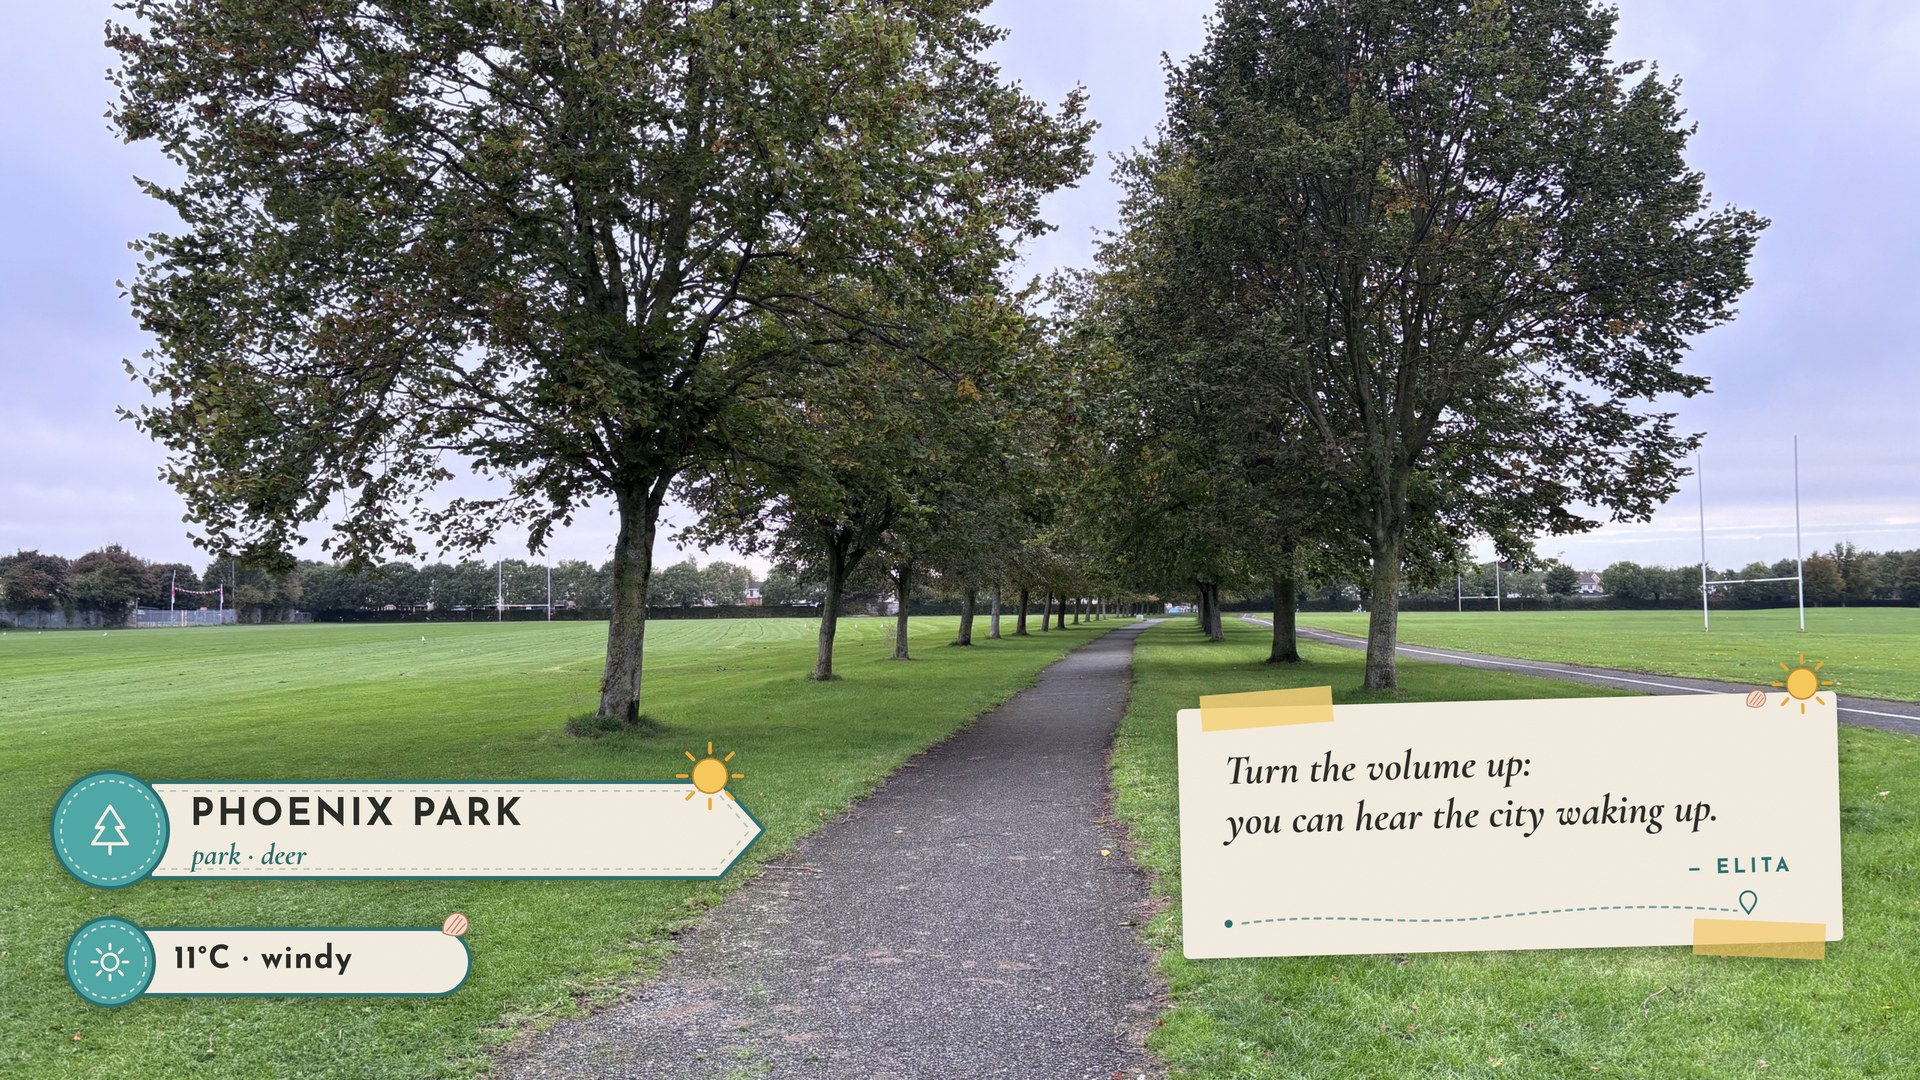
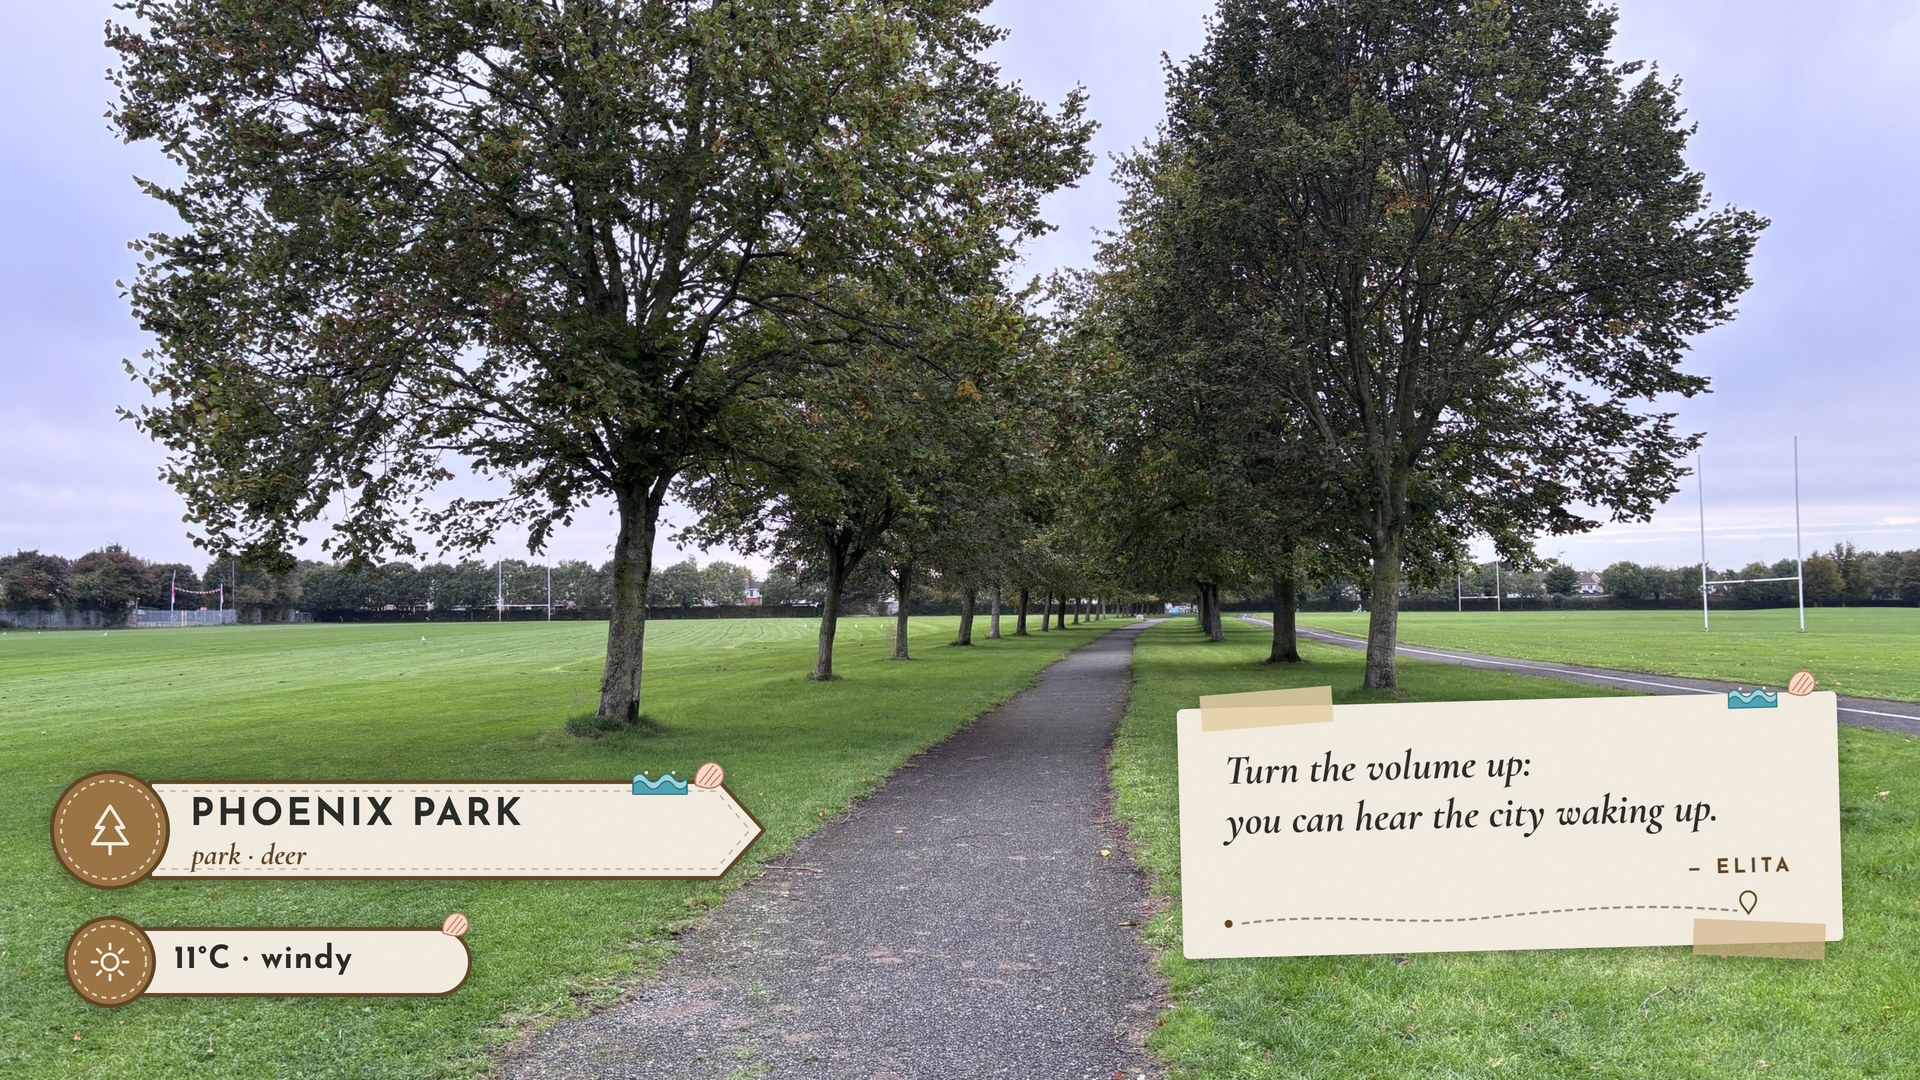
Elita: kit sendero con un solo color general (arena) y decoraciones por época
Claude-Session: https://claude.ai/code/session_01QcE6ahXjMRX9nuFAhFcmJW

diff --git a/elita-aventuras/scripts/sendero.py b/elita-aventuras/scripts/sendero.py
@@ -5,12 +5,9 @@ import agregados as A
 # toma), texto en tinta, color de la temporada en círculos, bordes y detalles. Medidas en unidades 1080p
 # (se renderiza a 2x para 4K).
 PAPEL='#F4EEE2'; TINTA='#2A2C27'
-PAL={  # principal, oscuro, suave (cinta / detalles), etiqueta ES, EN
- 'otono':dict(c='#C97B45',o='#8A4A25',s='#F0C9A0',c2='#E3B052'),
- 'halloween':dict(c='#8A6BB0',o='#4E3870',s='#F3B26B',c2='#F0954A'),
- 'invierno':dict(c='#7FA9C9',o='#4A6F8E',s='#D6E7F2',c2='#B9D3E6'),
- 'verano':dict(c='#4FA7A6',o='#2D6E6E',s='#F5D27A',c2='#F3C766'),
-}
+# Un solo color general para todo (el arena del logo); lo que cambia por época son los iconitos de arriba.
+GENERAL=dict(c='#9A7444',o='#5E4626',s='#E3CFA6',c2='#D2B587')
+PAL={t:GENERAL for t in ('otono','halloween','invierno','verano')}
 def ico(n,col,tam,sw=2.4): return A.icono(n,col,tam,sw)
 # ---------- decoraciones chicas por temporada ----------
 def hoja_arce(x,y,s,r,c):
@@ -18,23 +15,26 @@ def hoja_arce(x,y,s,r,c):
     return f'<g transform="translate({x},{y}) rotate({r}) scale({s})"><path d="{p}" fill="{c}" stroke="#7a3f1c" stroke-width="1.6" stroke-linejoin="round"/><path d="M0 24 V-18 M0 6 L10 -2 M0 6 L-10 -2" stroke="#7a3f1c" stroke-width="1.4" fill="none"/></g>'
 def hoja_oval(x,y,s,r,c): return f'<g transform="translate({x},{y}) rotate({r}) scale({s})"><path d="M0 -20 C12 -10 12 10 0 20 C-12 10 -12 -10 0 -20Z" fill="{c}" stroke="#7a3f1c" stroke-width="1.6"/><path d="M0 -16 V24" stroke="#7a3f1c" stroke-width="1.4"/></g>'
 def murcielago(x,y,s): return f'<g transform="translate({x},{y}) scale({s})"><path d="M0 0 C-4 -5 -11 -7 -20 -4 C-16 -2 -15 1 -16 4 C-12 1 -8 2 -6 5 C-4 2 -2 2 0 4 C2 2 4 2 6 5 C8 2 12 1 16 4 C15 1 16 -2 20 -4 C11 -7 4 -5 0 0Z" fill="#3b2a4e" stroke="#F3B26B" stroke-width="1.2" stroke-linejoin="round"/></g>'
-def calabaza(x,y,s): return f'<g transform="translate({x},{y}) scale({s})"><path d="M-2 -22 C-1 -29 3 -32 7 -32" stroke="#4d6b3a" stroke-width="4.5" fill="none" stroke-linecap="round"/><ellipse cx="-16" cy="0" rx="17" ry="21" fill="#e07a30" stroke="#8a4a1c" stroke-width="1.6"/><ellipse cx="16" cy="0" rx="17" ry="21" fill="#e07a30" stroke="#8a4a1c" stroke-width="1.6"/><ellipse cx="0" cy="0" rx="16" ry="23" fill="#ee8c3c" stroke="#8a4a1c" stroke-width="1.6"/><path d="M-19 -7 l7 -5 l3 8z M19 -7 l-7 -5 l-3 8z M-17 7 Q0 19 17 7 L12 9 L8 5 L4 11 L0 6 L-4 11 L-8 5 L-12 9Z" fill="#3a2414"/></g>'
+def calabaza(x,y,s): return f'<g transform="translate({x},{y}) scale({s})"><path d="M-2 -22 C-1 -29 3 -32 7 -32" stroke="#4d6b3a" stroke-width="4.5" fill="none" stroke-linecap="round"/><ellipse cx="-16" cy="0" rx="17" ry="21" fill="#e07a30" stroke="#8a4a1c" stroke-width="1.6"/><ellipse cx="16" cy="0" rx="17" ry="21" fill="#e07a30" stroke="#8a4a1c" stroke-width="1.6"/><ellipse cx="0" cy="0" rx="16" ry="23" fill="#ee8c3c" stroke="#8a4a1c" stroke-width="1.6"/><path d="M-8 -18 C-10 0 -10 10 -8 20 M8 -18 C10 0 10 10 8 20" stroke="#c96a26" stroke-width="1.6" fill="none"/></g>'
 def copo(x,y,s,c='#ffffff'): return f'<g transform="translate({x},{y}) scale({s})" stroke="{c}" stroke-width="3" stroke-linecap="round" fill="none" style="filter:drop-shadow(0 1px 2px rgba(40,70,100,.6))"><path d="M0 -20 V20 M-17.3 -10 L17.3 10 M-17.3 10 L17.3 -10"/><path d="M-5 -15 l5 5 l5 -5 M-5 15 l5 -5 l5 5"/></g>'
 def sol(x,y,s): return f'<g transform="translate({x},{y}) scale({s})"><g stroke="#E9A93A" stroke-width="4" stroke-linecap="round">'+''.join(f'<path d="M0 -26 V-36" transform="rotate({a})"/>' for a in range(0,360,45))+'</g><circle r="19" fill="#F5C85C" stroke="#C98A2A" stroke-width="2"/></g>'
 def caracola(x,y,s): return f'<g transform="translate({x},{y}) scale({s})"><path d="M-16 10 C-18 -6 -6 -18 6 -14 C16 -10 18 2 10 10 C4 15 -6 14 -16 10Z" fill="#F6D7C3" stroke="#B9806A" stroke-width="1.8"/><path d="M-12 8 L4 -12 M-6 10 L8 -8 M0 11 L12 -2" stroke="#B9806A" stroke-width="1.5"/></g>'
+def fantasma(x,y,s): return f'<g transform="translate({x},{y}) scale({s})"><path d="M-16 18 V-4 C-16 -16 -8 -24 0 -24 C8 -24 16 -16 16 -4 V18 L10 13 L5 18 L0 13 L-5 18 L-10 13Z" fill="#FBF7F0" stroke="#8a8090" stroke-width="1.6" stroke-linejoin="round"/><ellipse cx="-5.5" cy="-6" rx="2.6" ry="3.6" fill="#2a2430"/><ellipse cx="5.5" cy="-6" rx="2.6" ry="3.6" fill="#2a2430"/><ellipse cx="0" cy="3" rx="2.4" ry="3" fill="#2a2430"/></g>'
+def nube_lluvia(x,y,s): return f'<g transform="translate({x},{y}) scale({s})"><path d="M-18 6 h34 a10 10 0 0 0 0 -20 a14 14 0 0 0 -27 -3 a10.5 10.5 0 0 0 -7 23z" fill="#E8EDF1" stroke="#7d8d9b" stroke-width="1.8" stroke-linejoin="round"/><path d="M-10 12 l-3 8 M0 12 l-3 8 M10 12 l-3 8" stroke="#6FA3C8" stroke-width="3" stroke-linecap="round"/></g>'
+def mar(x,y,s): return f'<g transform="translate({x},{y}) scale({s})"><path d="M-30 0 q7.5 -9 15 0 t15 0 t15 0 t15 0 V16 H-30Z" fill="#9FD3DC" stroke="#2f7684" stroke-width="1.6" stroke-linejoin="round"/><path d="M-30 8 q7.5 -9 15 0 t15 0 t15 0 t15 0 V18 H-30Z" fill="#4FA3B3" stroke="#2f7684" stroke-width="1.6" stroke-linejoin="round"/><circle cx="-15" cy="-6" r="1.8" fill="#fff"/><circle cx="15" cy="-6" r="1.8" fill="#fff"/></g>'
 DECO={  # (junto a la punta del cartel, junto al círculo de clima, esquina de la nota)
  'otono':(lambda x,y:hoja_oval(x-38,y-6,.9,-30,'#C8682E')+hoja_arce(x,y,1.0,15,'#E3A040'),
           lambda x,y:hoja_arce(x,y,.75,-20,'#D98A3A'),
           lambda x,y:hoja_oval(x-36,y+2,.8,-35,'#B5532A')+hoja_arce(x,y,.95,20,'#E3B052')),
- 'halloween':(lambda x,y:calabaza(x,y+4,.9)+murcielago(x-52,y-20,.8),
+ 'halloween':(lambda x,y:calabaza(x,y+4,.9)+murcielago(x-54,y-22,.85)+murcielago(x-92,y-4,.6),
           lambda x,y:murcielago(x,y,.75),
-          lambda x,y:murcielago(x-40,y-6,.7)+calabaza(x,y+6,.75)),
- 'invierno':(lambda x,y:copo(x,y,1.0)+copo(x-38,y-14,.6),
+          lambda x,y:fantasma(x-46,y-4,.9)+calabaza(x,y+6,.75)),
+ 'invierno':(lambda x,y:nube_lluvia(x-44,y-6,.85)+copo(x,y,1.0),
           lambda x,y:copo(x,y,.7),
-          lambda x,y:copo(x,y,.95)+copo(x-34,y+10,.55)),
- 'verano':(lambda x,y:sol(x,y,.9),
+          lambda x,y:copo(x,y,.95)+nube_lluvia(x-46,y+4,.7)),
+ 'verano':(lambda x,y:mar(x-50,y+2,.9)+caracola(x,y,.9),
           lambda x,y:caracola(x,y,.8),
-          lambda x,y:sol(x,y,.8)+caracola(x-46,y+14,.6)),
+          lambda x,y:caracola(x,y,.85)+mar(x-50,y+8,.8)),
 }
 RUIDO='<filter id="papel"><feTurbulence type="fractalNoise" baseFrequency=".9" numOctaves="2" seed="3"/><feColorMatrix values="0 0 0 0 .35  0 0 0 0 .3  0 0 0 0 .25  0 0 0 .07 0"/><feComposite in2="SourceGraphic" operator="in"/></filter>'
 SOMBRA='filter:drop-shadow(0 4px 10px rgba(0,0,0,.35))'
